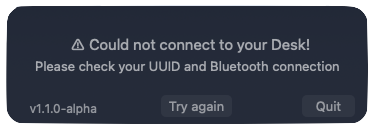
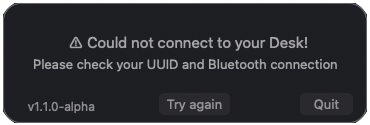
Update README.md

diff --git a/README.md b/README.md
@@ -1,16 +1,69 @@
-# DeskController
+# DeskController Menu Bar App
 
-**Version:** v0.1.0-alpha
+**Version:** v1.1.0-alpha
 
-**Author:** Victor Hucklenbroich
-
-A lightweight macOS menu bar application for controlling Linak-based standing desks. DeskController provides a visual interface for linak-controller interactions, allowing bluetooth desk height control.
+DeskController is a lightweight macOS menu bar application for controlling Linak-based standing desks. DeskController provides a visual interface for linak-controller interactions, allowing bluetooth desk height control.
 
 ![License](https://img.shields.io/badge/license-MIT-blue.svg)
 ![Platform](https://img.shields.io/badge/platform-macOS-lightgrey.svg)
 ![Python](https://img.shields.io/badge/python-3.x-blue.svg)
 
-// TODO
+### Requirements
+
+- macOS 14 Sonoma or later
+- Python 3.x
+- PyObjC (for macOS native UI)
+- Homebrew (recommended for linak-controller installation)
+- linak-controller
+- Desk already paired to your device.
+
+The [install](./install) script will automatically check for a valid Python installation and install Homebrew, PyObjc and linak-controller if they aren't already available. So you only need to pair your Desk if you are following the [Quick Start](#quick-start) guide.
+
+
+### Compatibility
+
+The App is only tested on Apple Silicon Macs with macOS Tahoe, but there isn't be any reason why it should not work with older versions of macOS or Intel Macs. Further, DeskController is built on top of [linak-controller](https://github.com/rhyst/linak-controller), an open-source project for controlling Linak standing desk controllers via Bluetooth. Althought the installation script and DeskController in-app settings are designed to automatically handle the linak-controller dependency and its configuration, these can still be the cause of isses (more on this under [Troubleshooting](#troubleshooting)).
+
+ Compatible Desks reported by linak-controller:
+- Ikea Idasen
+- iMovr Lander
+- Linak DPG1C
+- Linak DPG1M
+
+## Quick Start
+1. **Clone the repository**:
+   ```bash
+   git clone [email redacted]:victor-hucklenbroich/desk-controller.git
+   ```
+   or
+   ```bash
+   git clone https://github.com/victor-hucklenbroich/desk-controller.git
+   ```
+
+2. **Run the installation script**:
+
+   (Note: this step might ask you to automatically install the dependencies)
+   ```bash
+   desk-controller/install
+   ```
+   
+3. **Launch the App**:
+
+   `/Applications/DeskController.app`
+ 
+![image](./assets/examples/startup_view.png)![image](./assets/examples/desk_controller_view.png)
+
+
+
+
+## Troubleshooting
+Should something go wrong during the execution of the installation script, it's recommended to follow the scripts outputs to find the issue. Likely culprits are a missing, invalid or outdated installation of Python or Homebrew. The linak-controller and PyObjC dependencies should be handled automatically by the script but it's worth checking these manually if necessary. 
+
+
+
+![image](./assets/examples/connection_error_message.png)
+
+If the DeskController App is not launching properly there is a prelaunch error log available at `~/Library/Logs/DeskController_error.log`. Most common issues are problems with linak-controller and its config, the provided UUID of your desk, or the Bluetooth connection between your Mac and desk. Before proceeding double check that DeskController can find your linak-controller path and config file (`~/Library/Application Support/linak-controller/config.yaml`). This is where DeskController is looking for the UUID of your desk. Also make sure the UUID is correct, and you can connect to your desk via Bluetooth.  If you are still facing issues, check the runtime logs located at `~/Library/Logs/DeskController.log`. At this point you might also want to check the DeskController and linak-controller source code.
 
 ## Acknowledgments
 